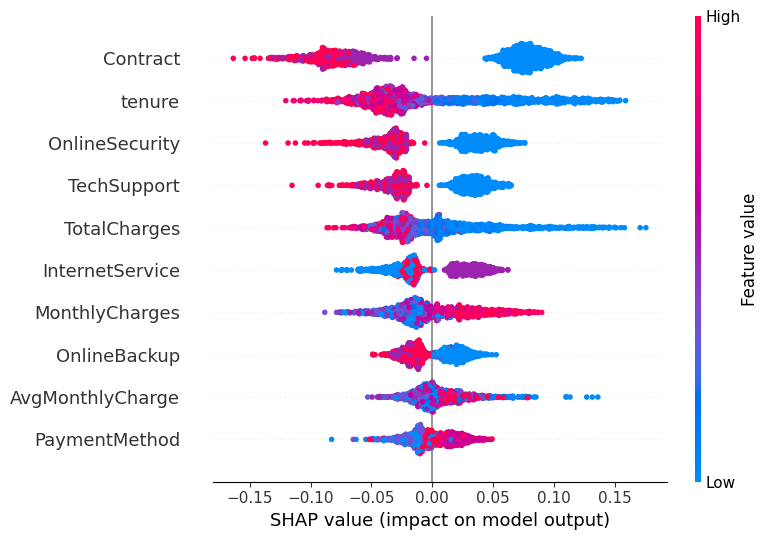
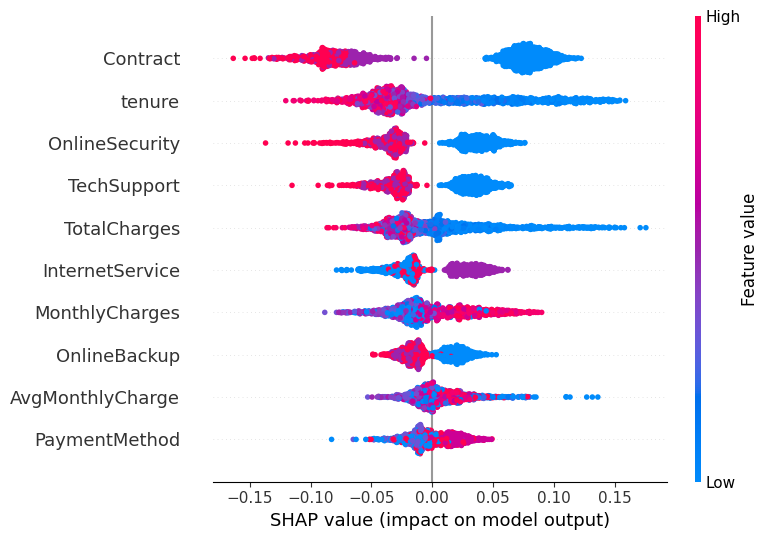
Add ablation study and persona retention report updates

diff --git a/src/explain.py b/src/explain.py
@@ -7,7 +7,8 @@ import shap
 from sklearn.cluster import KMeans
 from sklearn.metrics import silhouette_score
 from sklearn.preprocessing import StandardScaler
-
+from sklearn.metrics import davies_bouldin_score
+from scipy.stats import kruskal
 
 def _prepare_shap_values(model, X_test):
     """Compute SHAP values with a tree explainer when possible and fall back to KernelExplainer."""
@@ -86,7 +87,122 @@ def _choose_cluster_count(shap_matrix, min_clusters=2, max_clusters=5):
             best_k = n_clusters
 
     return best_k
+# thêm mới đoạn này
+def _cluster_and_score(data, n_clusters, random_state=42):
+    """Chuẩn hoá dữ liệu, chạy KMeans, trả về nhãn cụm + 2 chỉ số đánh giá độc lập:
+    - Silhouette: càng cao càng tốt (cụm compact & tách biệt), range [-1, 1]
+    - Davies-Bouldin: càng thấp càng tốt (tỷ lệ within/between-cluster distance)
+    Dùng cả 2 chỉ số vì Silhouette có thể bias khi cluster lệch kích thước,
+    trong khi Davies-Bouldin nhạy với cluster overlap hơn.
+    """
+    scaler = StandardScaler()
+    scaled = scaler.fit_transform(data)
+    kmeans = KMeans(n_clusters=n_clusters, random_state=random_state, n_init=20)
+    labels = kmeans.fit_predict(scaled)
+    sil = silhouette_score(scaled, labels)
+    db = davies_bouldin_score(scaled, labels)
+    return labels, sil, db
 
+
+def compare_clustering_spaces(X_test, shap_top, top_idx, k_range=range(2, 6)):
+    """ABLATION STUDY - đóng góp chính của đề tài.
+
+    So sánh chất lượng phân cụm khách hàng khi thực hiện trên 2 không gian:
+    (1) raw_feature : giá trị feature thô sau chuẩn hoá - cách làm PHỔ BIẾN
+        trong các nghiên cứu customer segmentation truyền thống.
+    (2) shap_value   : đóng góp SHAP của từng feature tới xác suất churn -
+        ĐỀ XUẤT của đề tài này, vì nó phản ánh "feature này đẩy khách hàng
+        về phía churn/không-churn bao nhiêu" thay vì chỉ là giá trị thô,
+        giúp cụm phản ánh đúng NGUYÊN NHÂN hành vi thay vì chỉ đặc điểm nhân khẩu học.
+
+    Với mỗi k trong k_range, chạy KMeans độc lập trên từng không gian,
+    ghi nhận đầy đủ Silhouette/Davies-Bouldin để vẽ biểu đồ so sánh theo k,
+    đồng thời chọn ra k tốt nhất (theo Silhouette) riêng cho từng không gian
+    để so sánh kiểu "best-of-each" công bằng.
+    """
+    raw_data = X_test.iloc[:, top_idx]
+
+    rows = []
+    best = {}
+
+    for space_name, data in [('raw_feature', raw_data), ('shap_value', shap_top)]:
+        best[space_name] = None
+        for k in k_range:
+            if k >= len(data):
+                continue
+            labels, sil, db = _cluster_and_score(data, k)
+            rows.append({
+                'Space': space_name,
+                'k': k,
+                'Silhouette': round(sil, 4),
+                'Davies_Bouldin': round(db, 4)
+            })
+            if best[space_name] is None or sil > best[space_name]['Silhouette']:
+                best[space_name] = {
+                    'k': k, 'Silhouette': sil,
+                    'Davies_Bouldin': db, 'labels': labels
+                }
+
+    comparison_df = pd.DataFrame(rows)
+    return comparison_df, best
+
+
+def validate_cluster_separation(feature_df, labels, feature_names, alpha=0.05):
+    """Kiểm định Kruskal-Wallis H-test cho từng feature giữa các cụm.
+
+    H0: phân phối feature giống nhau giữa các cụm (cụm KHÔNG thực sự khác biệt
+        về feature đó - chỉ là artifact của thuật toán clustering).
+    Nếu p-value < alpha => bác bỏ H0 => cụm khác biệt có ý nghĩa thống kê.
+
+    Dùng Kruskal-Wallis (phi tham số) thay vì ANOVA vì SHAP values sau
+    chuẩn hoá thường không thỏa giả định phân phối chuẩn / phương sai đồng nhất.
+    Đây là bằng chứng ĐỊNH LƯỢNG bắt buộc phải có trong bài báo để chứng minh
+    persona không phải là "cụm giả" (như trường hợp 2 persona đều dominant
+    bởi cùng 1 feature Contract ở phiên bản pipeline cũ).
+    """
+    results = []
+    df = feature_df.copy()
+    df['_cluster'] = labels
+    for feat in feature_names:
+        groups = [g[feat].values for _, g in df.groupby('_cluster')]
+        stat, p = kruskal(*groups)
+        results.append({
+            'Feature': feat,
+            'H_stat': round(stat, 4),
+            'p_value': round(p, 6),
+            'Significant_at_0.05': p < alpha
+        })
+    result_df = pd.DataFrame(results)
+    pct_significant = round(result_df['Significant_at_0.05'].mean() * 100, 1)
+    return result_df, pct_significant
+
+
+def _save_ablation_plot(comparison_df, reports_dir):
+    """Vẽ biểu đồ Silhouette theo k cho 2 không gian, dùng trực tiếp trong
+    slide trình bày và phần Kết quả thực nghiệm của bài báo."""
+    fig_dir = os.path.join(reports_dir, 'figures')
+    os.makedirs(fig_dir, exist_ok=True)
+
+    fig, axes = plt.subplots(1, 2, figsize=(12, 5))
+    for space_name, marker in [('raw_feature', 'o'), ('shap_value', 's')]:
+        subset = comparison_df[comparison_df['Space'] == space_name]
+        axes[0].plot(subset['k'], subset['Silhouette'], marker=marker, label=space_name)
+        axes[1].plot(subset['k'], subset['Davies_Bouldin'], marker=marker, label=space_name)
+
+    axes[0].set_title('Silhouette Score theo k (càng cao càng tốt)')
+    axes[0].set_xlabel('Số cụm (k)')
+    axes[0].set_ylabel('Silhouette')
+    axes[0].legend()
+
+    axes[1].set_title('Davies-Bouldin Index theo k (càng thấp càng tốt)')
+    axes[1].set_xlabel('Số cụm (k)')
+    axes[1].set_ylabel('Davies-Bouldin')
+    axes[1].legend()
+
+    plt.tight_layout()
+    plt.savefig(os.path.join(fig_dir, 'ablation_raw_vs_shap.png'), bbox_inches='tight')
+    plt.close()
+# end thêm mới đoạn này
 
 def _label_cluster(feature_name):
     """Create readable cluster labels from dominant SHAP features."""
@@ -114,15 +230,45 @@ def perform_shap_and_clustering(data_path, models_dir, reports_dir):
 
     _save_global_plots(shap_values, X_test, top_idx, top_features, reports_dir)
 
-    print("Performing KMeans clustering on the most important SHAP features...")
+    # print("Performing KMeans clustering on the most important SHAP features...")
+    # shap_top = shap_values[:, top_idx]
+    # n_clusters = _choose_cluster_count(shap_top)
+    # scaler = StandardScaler()
+    # scaled = scaler.fit_transform(shap_top)
+
+    # kmeans = KMeans(n_clusters=n_clusters, random_state=42, n_init=20)
+    # clusters = kmeans.fit_predict(scaled)
+    
     shap_top = shap_values[:, top_idx]
-    n_clusters = _choose_cluster_count(shap_top)
-    scaler = StandardScaler()
-    scaled = scaler.fit_transform(shap_top)
 
-    kmeans = KMeans(n_clusters=n_clusters, random_state=42, n_init=20)
-    clusters = kmeans.fit_predict(scaled)
+    # ===== ABLATION STUDY: SHAP-space vs Raw-feature-space clustering =====
+    print("Chạy ablation study: SHAP-space vs Raw-feature-space clustering...")
+    comparison_df, best = compare_clustering_spaces(X_test, shap_top, top_idx, k_range=range(2, 6))
+    comparison_df.to_csv(os.path.join(reports_dir, 'ablation_raw_vs_shap.csv'), index=False)
+    _save_ablation_plot(comparison_df, reports_dir)
 
+    improvement_pct = round(
+        (best['shap_value']['Silhouette'] - best['raw_feature']['Silhouette'])
+        / abs(best['raw_feature']['Silhouette']) * 100, 2
+    )
+    print(f"Best silhouette - raw_feature: {best['raw_feature']['Silhouette']:.4f} (k={best['raw_feature']['k']})")
+    print(f"Best silhouette - shap_value : {best['shap_value']['Silhouette']:.4f} (k={best['shap_value']['k']})")
+    print(f"Cải thiện của SHAP-space so với raw-feature-space: {improvement_pct}%")
+
+    # Dùng kết quả tốt nhất từ SHAP-space (đề xuất của đề tài) làm persona chính thức
+    n_clusters = best['shap_value']['k']
+    clusters = best['shap_value']['labels']
+
+    # ===== VALIDATION: kiểm định thống kê cho cụm SHAP đã chọn =====
+    shap_top_df = pd.DataFrame(shap_top, columns=top_features)
+    validation_df, pct_significant = validate_cluster_separation(
+        shap_top_df, clusters, top_features
+    )
+    validation_df.to_csv(os.path.join(reports_dir, 'cluster_validation_kruskal.csv'), index=False)
+    print(f"{pct_significant}% feature có khác biệt ý nghĩa thống kê (p<0.05) giữa các cụm SHAP.")
+    # =========================================================================
+
+    # old here
     X_test_clustered = X_test.copy()
     X_test_clustered['Persona_Cluster'] = clusters
     X_test_clustered.to_csv(os.path.join(reports_dir, 'customer_personas_shap.csv'), index=False)
@@ -188,6 +334,14 @@ def perform_shap_and_clustering(data_path, models_dir, reports_dir):
 
     with open(os.path.join(reports_dir, 'persona_retention_recommendations.md'), 'w', encoding='utf-8') as fh:
         fh.write('# Persona-based retention recommendations\n\n')
+        fh.write('## Ablation Study: SHAP-space vs Raw-feature-space Clustering\n\n')
+        fh.write(f"- Silhouette tốt nhất (raw feature space, k={best['raw_feature']['k']}): "
+                 f"{best['raw_feature']['Silhouette']:.4f}\n")
+        fh.write(f"- Silhouette tốt nhất (SHAP value space, k={best['shap_value']['k']}): "
+                 f"{best['shap_value']['Silhouette']:.4f}\n")
+        fh.write(f"- Mức cải thiện: {improvement_pct}%\n")
+        fh.write(f"- {pct_significant}% feature quan trọng có khác biệt ý nghĩa thống kê "
+                 f"(Kruskal-Wallis, p<0.05) giữa các persona trên SHAP space.\n\n")
         if cluster_note:
             fh.write(f"{cluster_note}\n\n")
         for _, row in persona_recommendations_df.iterrows():

diff --git a/reports/persona_retention_recommendations.md b/reports/persona_retention_recommendations.md
@@ -1,5 +1,12 @@
 # Persona-based retention recommendations
 
+## Ablation Study: SHAP-space vs Raw-feature-space Clustering
+
+- Silhouette tốt nhất (raw feature space, k=3): 0.3002
+- Silhouette tốt nhất (SHAP value space, k=2): 0.3073
+- Mức cải thiện: 2.36%
+- 100.0% feature quan trọng có khác biệt ý nghĩa thống kê (Kruskal-Wallis, p<0.05) giữa các persona trên SHAP space.
+
 Ghi chú quan trọng: hai persona hiện tại có xu hướng giống nhau vì tín hiệu churn trong tập dữ liệu chủ yếu bị chi phối bởi cùng một nhóm đặc trưng liên quan đến hợp đồng và thời gian sử dụng. Trong thực tế, điều này cho thấy phân tách giữa các nhóm chưa đủ rõ ràng, nên cần thêm dữ liệu, đặc trưng mới hoặc điều chỉnh cách gom cụm để tăng tính phân biệt.
 
 ## Persona 0